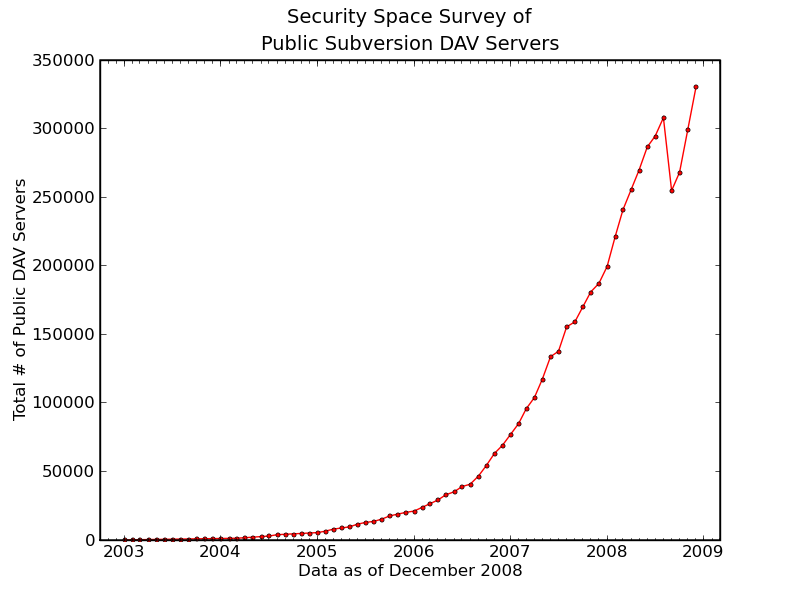
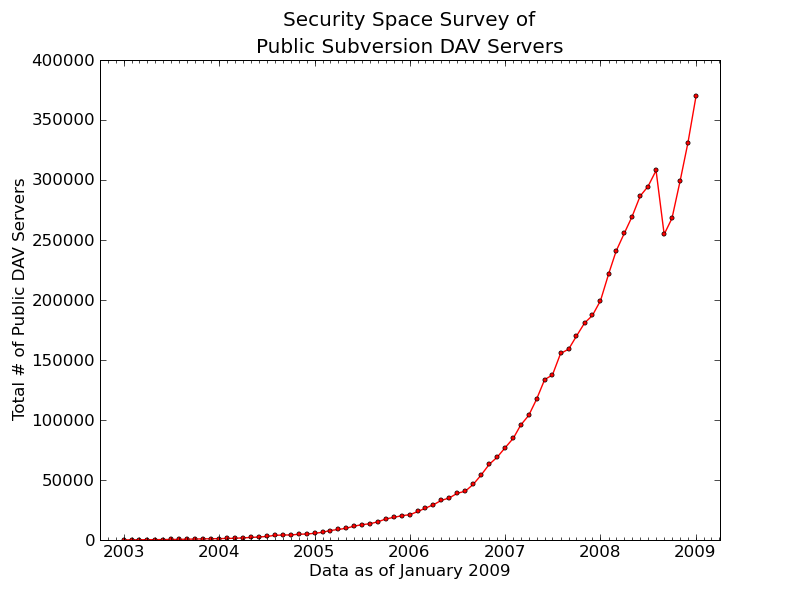
Update the dav server survey for Jan. 2009.
* www/svn-dav-securityspace-survey.html,
  www/images/svn-dav-securityspace-survey.png,
  tools/dev/graph-dav-servers.py:
  Update image and table.

git-svn-id: http://svn.apache.org/repos/asf/subversion/trunk@875017 13f79535-47bb-0310-9956-ffa450edef68

diff --git a/www/svn-dav-securityspace-survey.html b/www/svn-dav-securityspace-survey.html
@@ -44,6 +44,7 @@ for <code>mod_dav_svn</code>.  Thanks Security Space!</p>
 <table style="margin-left: auto; margin-right: auto;" border="0"
   cellpadding="5" cellspacing="0">
   <tr><th>Date</th><th># Servers</th></tr>
+  <tr><td>Janurary 2009</td><td style="text-align: right">368,719</td></tr>
   <tr><td>December 2008</td><td style="text-align: right">330,884</td></tr>
   <tr><td>November 2008</td><td style="text-align: right">299,071</td></tr>
   <tr><td>October 2008</td><td style="text-align: right">268,081</td></tr>

diff --git a/tools/dev/graph-dav-servers.py b/tools/dev/graph-dav-servers.py
@@ -94,7 +94,8 @@ STATS = """1/1/2003       70
 9/1/2008              254757
 10/1/2008             268081
 11/1/2008             299071
-12/1/2008             330884"""
+12/1/2008             330884
+1/1/2009              369719"""
 
 
 def get_date(raw_date):
